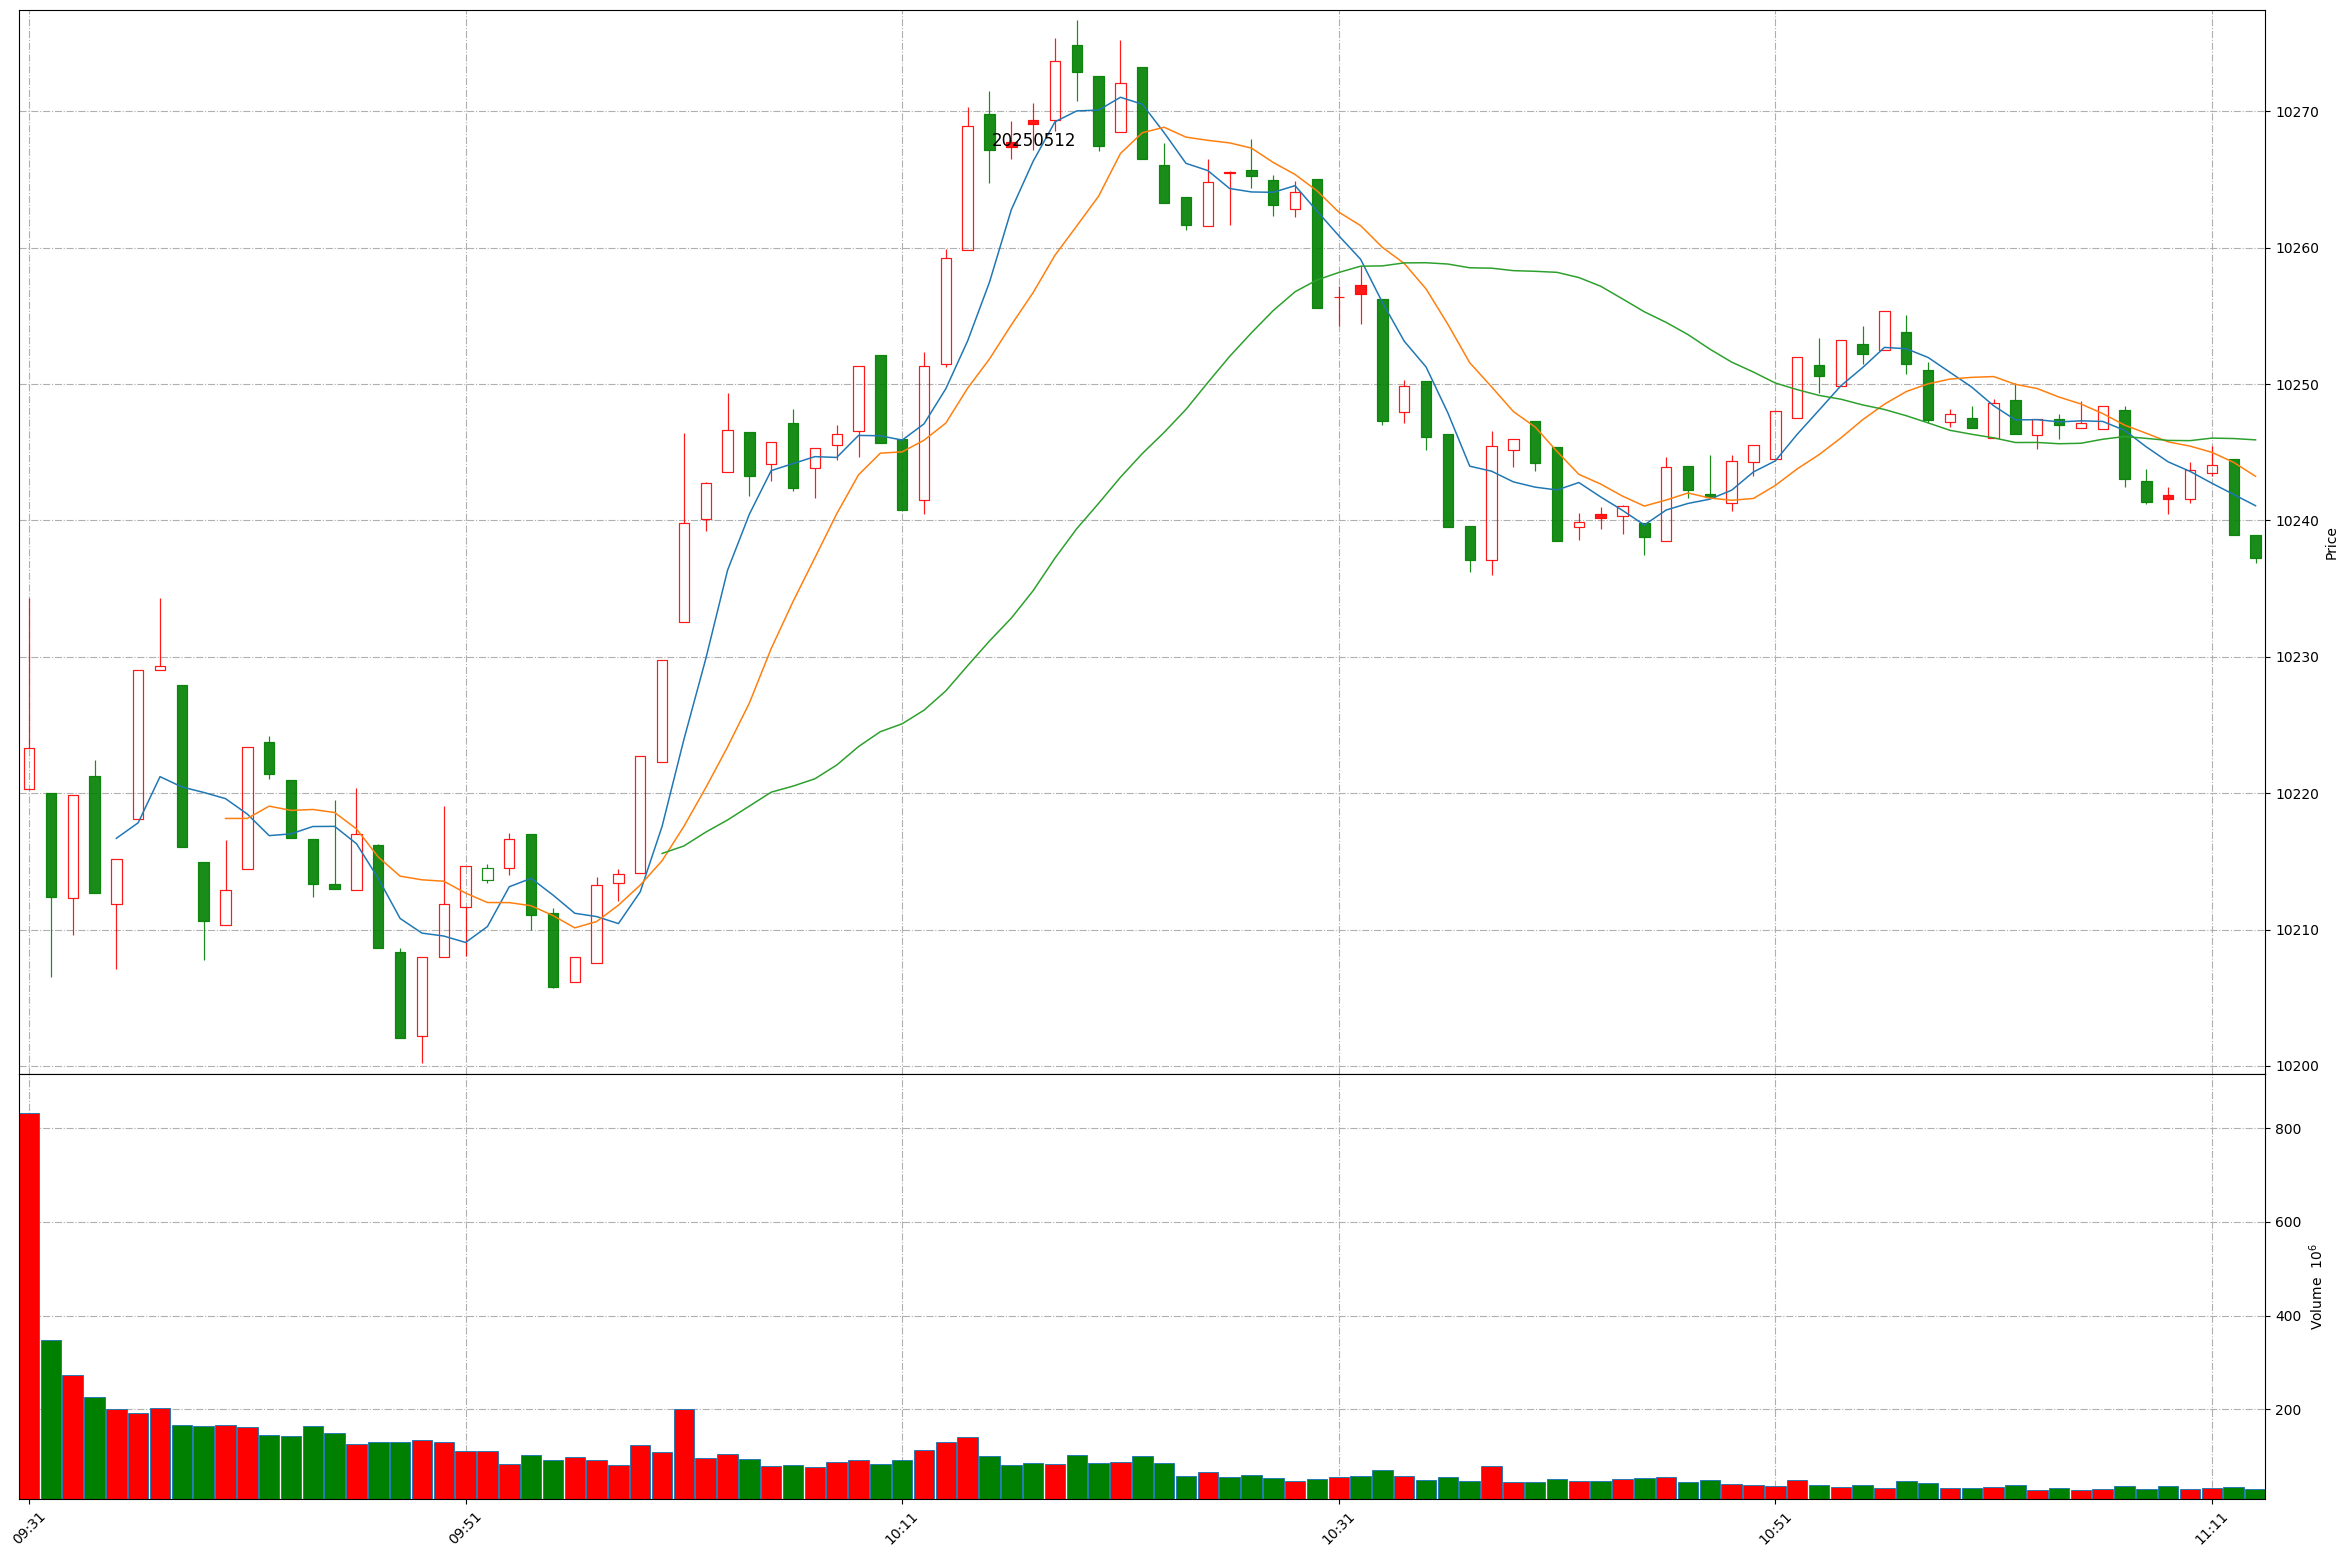
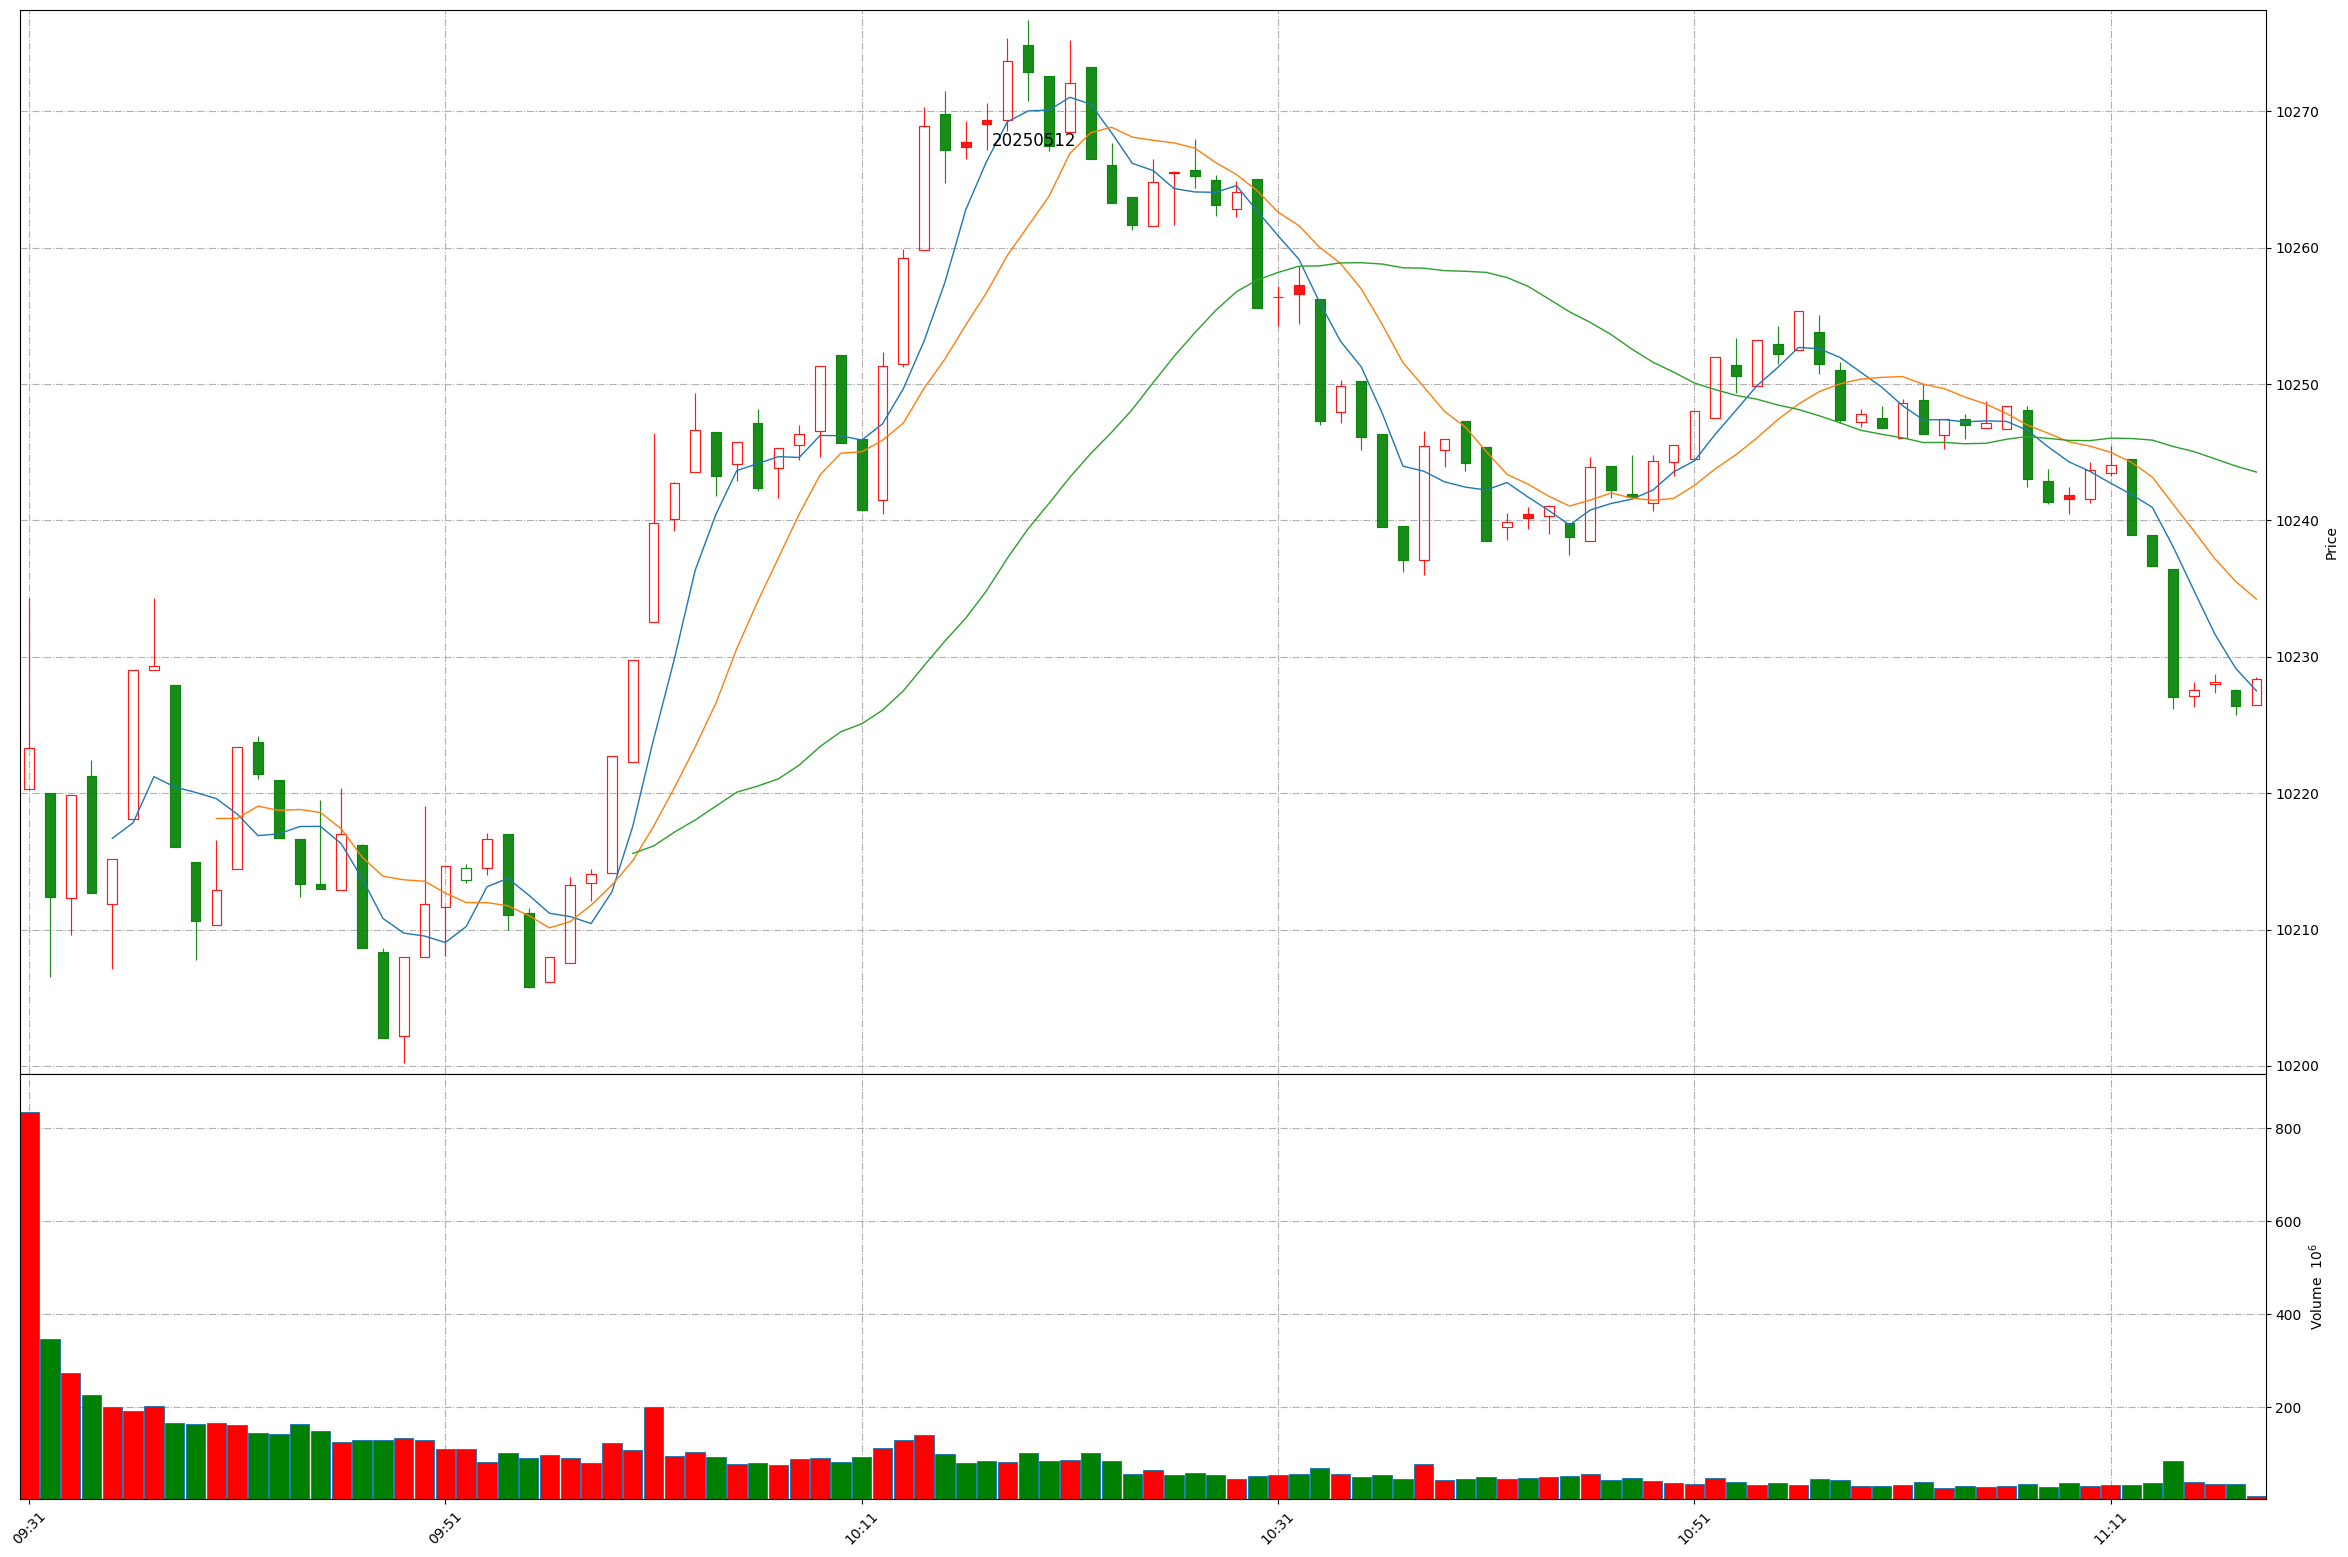
Github action update at 2025-05-12 11:17:34.

diff --git a/README.md b/README.md
@@ -1,11 +1,11 @@
 
 # Daily-A-share-market-quotes 每日 A 股指数（5min 更新）- 20250512
 
-### 上证指数 20250512 11:13
+### 上证指数 20250512 11:17
 ![](./fig/2025/5/20250512-sh000001.png)
 
-### 深证成指 20250512 11:13
+### 深证成指 20250512 11:17
 ![](./fig/2025/5/20250512-sz399001.png)
 
-### 北证50 20250512 11:13
+### 北证50 20250512 11:17
 ![](./fig/2025/5/20250512-bj899050.png)
